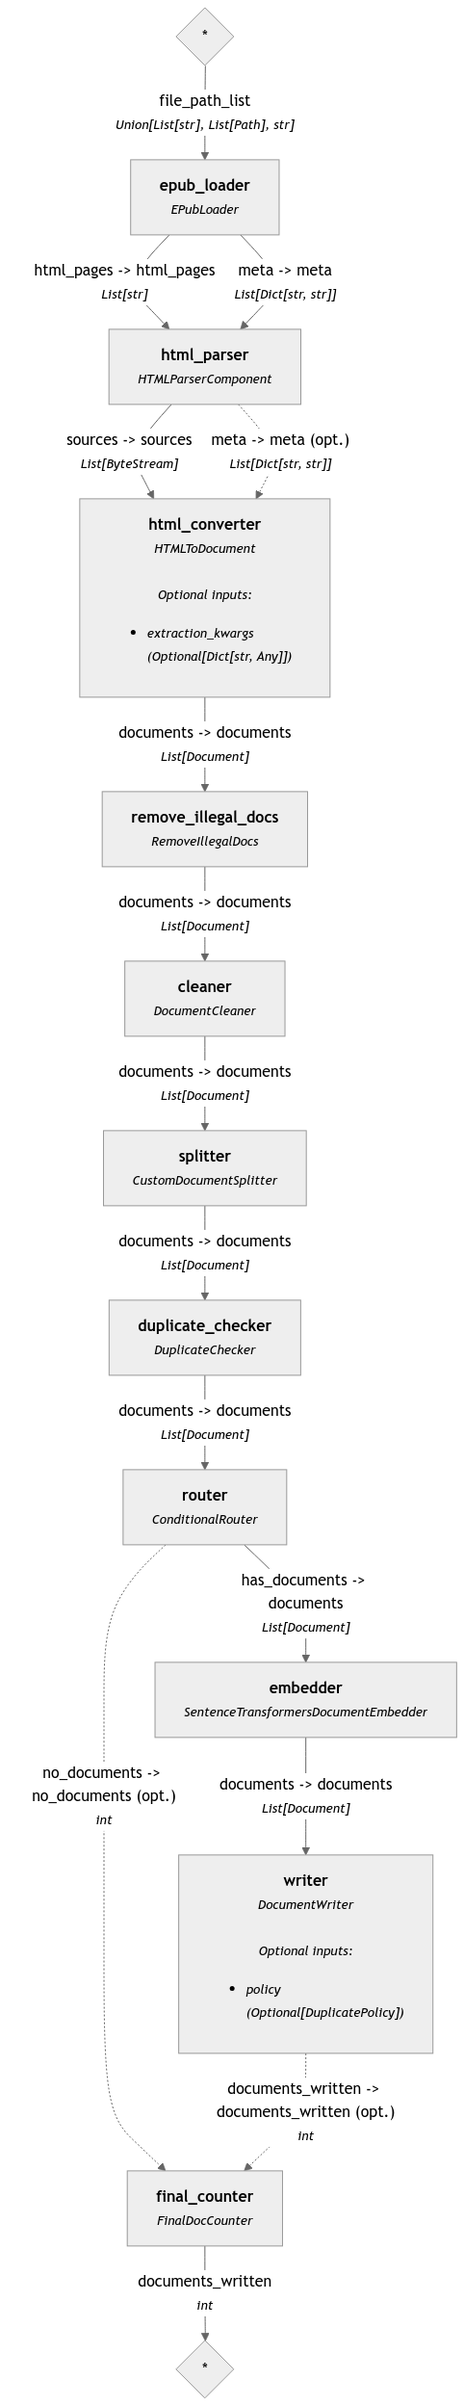
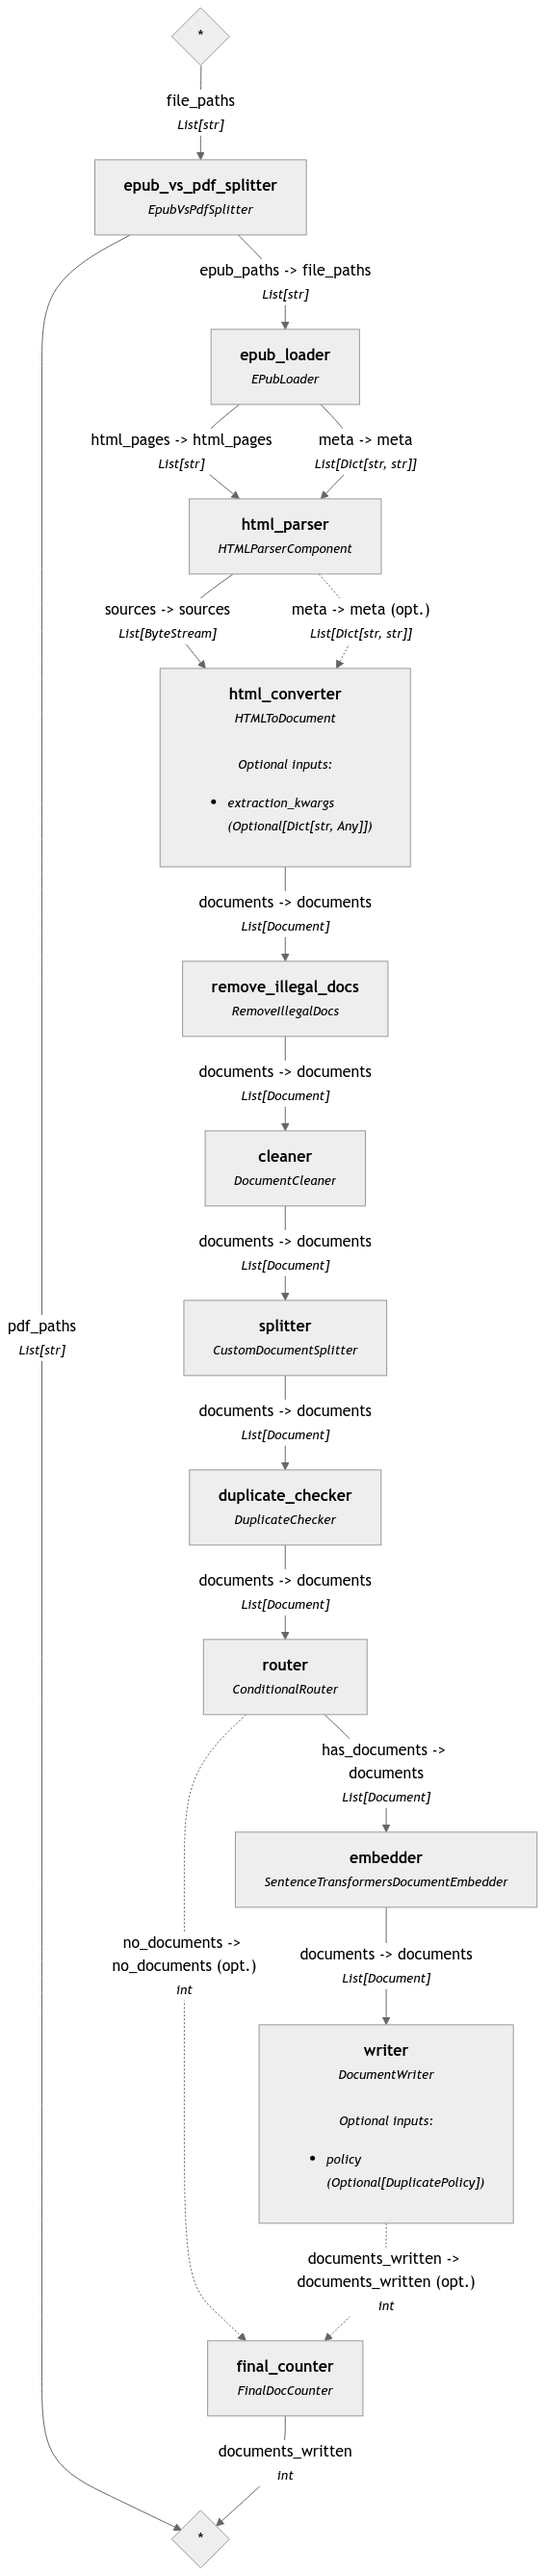
I've added a pdf vs epub splitter though it currently only handles epubs.

diff --git a/custom_haystack_components.py b/custom_haystack_components.py
@@ -60,26 +60,42 @@ def _print_hierarchy(data: Dict[str, Any], level: int) -> None:
 
 
 @component
+class EpubVsPdfSplitter:
+    @component.output_types(epub_paths=List[str], pdf_paths=List[str])
+    def run(self, file_paths: List[str]) -> Dict[str, List[str]]:
+        epub_paths: List[str] = []
+        pdf_paths: List[str] = []
+        for file_path in file_paths:
+            if file_path.lower().endswith('.epub'):
+                epub_paths.append(file_path)
+            elif file_path.lower().endswith('.pdf'):
+                pdf_paths.append(file_path)
+            else:
+                raise ValueError(f"File type not supported: {file_path}")
+        return {"epub_paths": epub_paths, "pdf_paths": pdf_paths}
+
+
+@component
 class EPubLoader:
     def __init__(self, verbose: bool = False, skip_file: str = "sections_to_skip.csv") -> None:
         self._verbose: bool = verbose
         self._is_directory: bool = False
-        self._file_path_list: List[str] = []
+        self._file_paths: List[str] = []
         self._skip_file: str = skip_file
         self._sections_to_skip: Dict[str, Set[str]] = {}
 
     @component.output_types(html_pages=List[str], meta=List[Dict[str, str]])
-    def run(self, file_path_list: Union[List[str], List[Path], str]) -> Dict[str, Any]:
-        if isinstance(file_path_list, str):
-            file_path_list = [file_path_list]
-        if len(file_path_list) == 0:
+    def run(self, file_paths: Union[List[str], List[Path], str]) -> Dict[str, Any]:
+        if isinstance(file_paths, str):
+            file_path_list = [file_paths]
+        if len(file_paths) == 0:
             raise ValueError("No file paths provided.")
-        if isinstance(file_path_list, list) and isinstance(file_path_list[0], Path):
-            file_path_list = [str(file_path) for file_path in file_path_list]
+        if isinstance(file_paths, list) and isinstance(file_paths[0], Path):
+            file_path_list = [str(file_path) for file_path in file_paths]
         # Verify that every single file path ends with .epub
-        if not all(file_path.lower().endswith('.epub') for file_path in file_path_list):
+        if not all(file_path.lower().endswith('.epub') for file_path in file_paths):
             raise ValueError("EpubLoader only accepts .epub files.")
-        self._file_path_list = file_path_list
+        self._file_paths = file_paths
         self._sections_to_skip = self._load_sections_to_skip()
         # Load the EPUB file
         html_pages: List[str]
@@ -90,7 +106,7 @@ class EPubLoader:
     def _load_file(self) -> Tuple[List[str], List[Dict[str, str]]]:
         sources: List[str] = []
         meta: List[Dict[str, str]] = []
-        for file_path in self._file_path_list:
+        for file_path in self._file_paths:
             sources_temp: List[str]
             meta_temp: List[Dict[str, str]]
             sources_temp, meta_temp = self._load_epub(file_path)
@@ -131,10 +147,10 @@ class EPubLoader:
     def _load_sections_to_skip(self) -> Dict[str, Set[str]]:
         sections_to_skip: Dict[str, Set[str]] = {}
         if self._is_directory:
-            csv_path = Path(self._file_path_list[0]) / self._skip_file
+            csv_path = Path(self._file_paths[0]) / self._skip_file
         else:
             # Get the directory of the file and then look for the csv file in that directory
-            csv_path = Path(self._file_path_list[0]).parent / self._skip_file
+            csv_path = Path(self._file_paths[0]).parent / self._skip_file
 
         if csv_path.exists():
             with open(csv_path, 'r', newline='', encoding='utf-8') as csvfile:

diff --git a/document_processor.py b/document_processor.py
@@ -28,7 +28,7 @@ from pathlib import Path
 from generator_model import get_secret
 from doc_content_checker import skip_content
 from custom_haystack_components import (CustomDocumentSplitter, RemoveIllegalDocs, FinalDocCounter, DuplicateChecker,
-                                        EPubLoader, HTMLParserComponent, print_debug_results)
+                                        EPubLoader, HTMLParserComponent, print_debug_results, EpubVsPdfSplitter)
 
 
 class DocumentProcessor:
@@ -187,6 +187,7 @@ class DocumentProcessor:
 
         # Create the document conversion pipeline
         doc_convert_pipe: Pipeline = Pipeline()
+        doc_convert_pipe.add_component("epub_vs_pdf_splitter", EpubVsPdfSplitter())
         doc_convert_pipe.add_component("epub_loader", EPubLoader(verbose=self._verbose))
         doc_convert_pipe.add_component("html_parser",
                                        HTMLParserComponent(min_paragraph_size=self._min_paragraph_size,
@@ -204,6 +205,7 @@ class DocumentProcessor:
                                                       policy=DuplicatePolicy.OVERWRITE))
         doc_convert_pipe.add_component("final_counter", FinalDocCounter())
 
+        doc_convert_pipe.connect("epub_vs_pdf_splitter.epub_paths", "epub_loader.file_paths")
         doc_convert_pipe.connect("epub_loader.html_pages", "html_parser.html_pages")
         doc_convert_pipe.connect("epub_loader.meta", "html_parser.meta")
         doc_convert_pipe.connect("html_parser.sources", "html_converter.sources")
@@ -259,7 +261,7 @@ class DocumentProcessor:
             file_path_list: List[str] = [file_path]
             self._print_verbose(f"Processing file: {file_path} ")
             results: Dict[str, Any] = self._doc_convert_pipeline.run(
-                {"epub_loader": {"file_path_list": file_path_list}},
+                {"epub_vs_pdf_splitter": {"file_paths": file_path_list}},
                 include_outputs_from=self._include_outputs_from)
             print_debug_results(results, include_outputs_from=self._include_outputs_from, verbose=self._verbose)
             written = results["final_counter"]["documents_written"]
